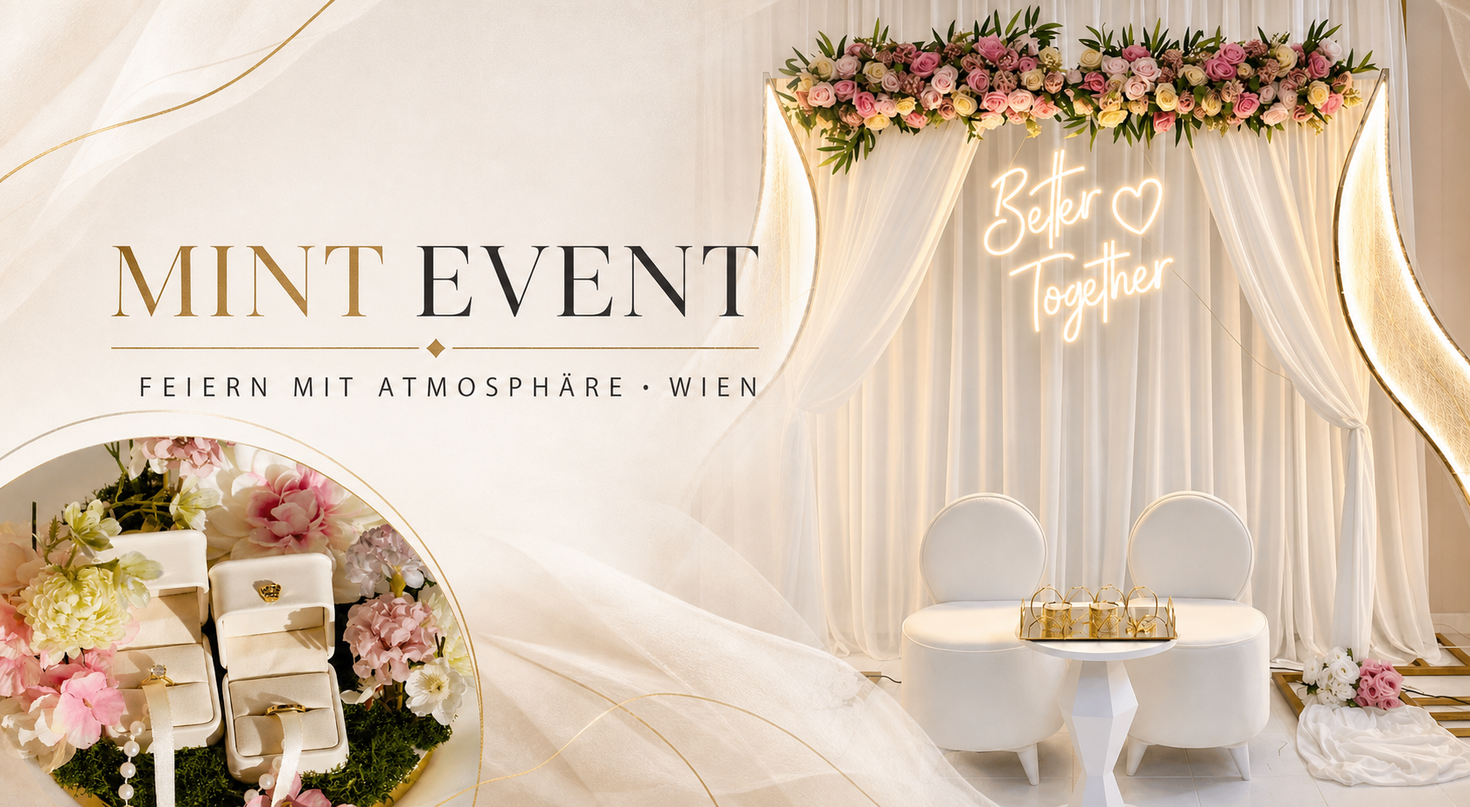
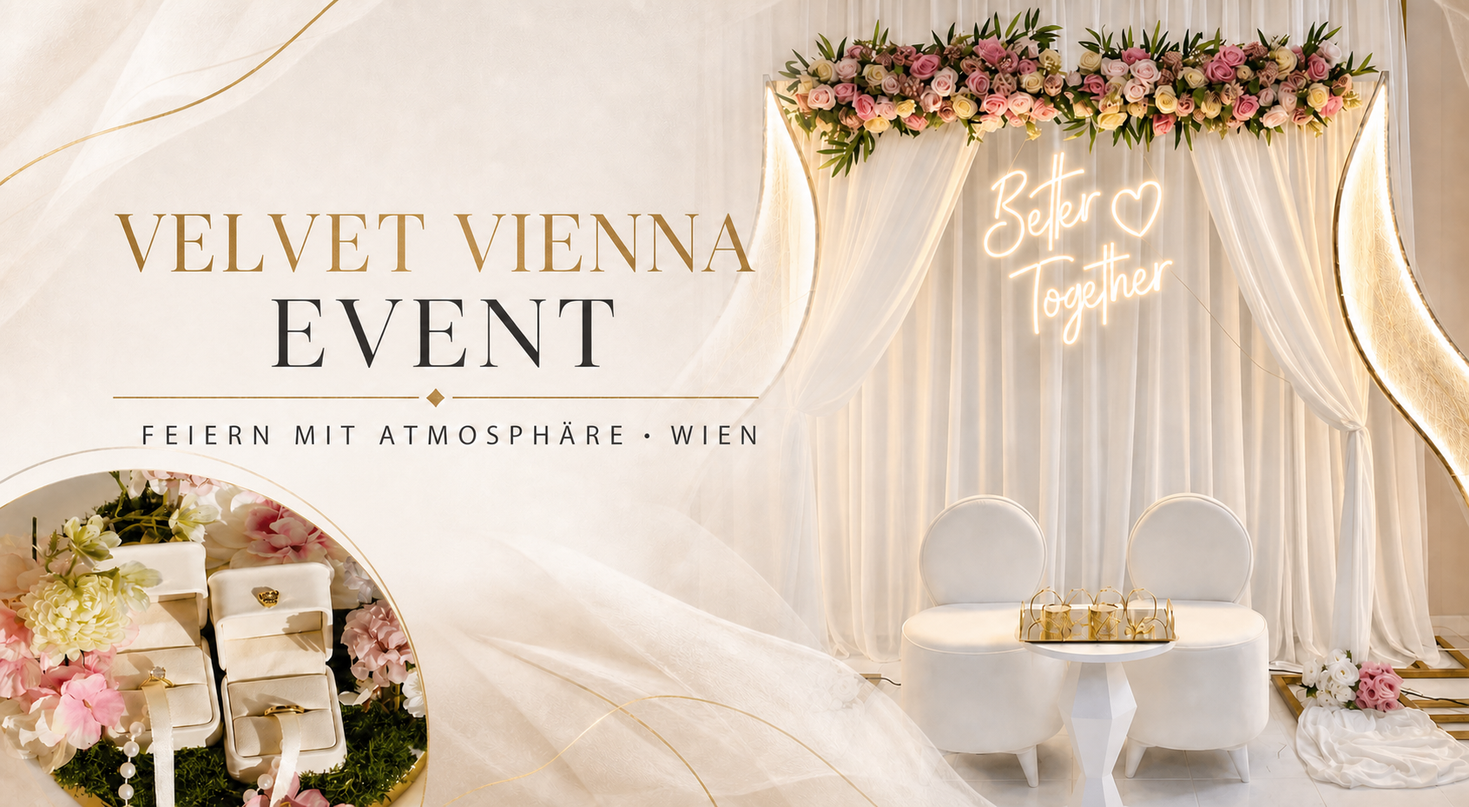
Rebrand site as Velvet Vienna Event

diff --git a/app/components/MintSite.tsx b/app/components/MintSite.tsx
@@ -74,7 +74,7 @@ const itemDescriptionTranslations: Record<Lang, Record<string, string>> = {
     "Scarlet Feather": "Auf Wunsch personalisierbar", "Burgundy Tef": "Spezielles Tef für die Braut · Auf Wunsch personalisierbar", "Midnight Masks": "Auf Wunsch personalisierbar", "Instant Memories": "Inklusive 20 Aufnahmen", "Davul Kiralama": "Auf Wunsch personalisierbar", "rental-crimson-garden": "Roter Teppich und Henna-Thron können separat gemietet werden.", "Initials in Ivory": "Personalisierung möglich", "gift-canvas-bag": "Auf Wunsch personalisierbar", "gift-bridal-fan": "Auf Wunsch personalisierbar",
   },
   tr: {
-    "Sarı & Orange Garden": "Çiçekler · Kumaş · Açık alan", "White Geometry": "Tekstil · Geometri · Beyaz", "Rosé & Gold": "Pudra pembe · Işık · Altın", "Luminous White": "Işık kemerleri · Çiçek tasarımı", "Butterfly Geometry": "Tekstil · Kelebek detayları", "White Circle": "Masa · Yuvarlak kemer · Çiçekler", "Pearl Light": "Sedef · Işık · Çiçek tasarımı", "Crimson Garden": "Taht · Halı · Fenerler", "rental-crimson-garden": "Kırmızı Halı ve Kına Tahtı ayrı ayrı kiralanabilir.", "Sage & Gold Garden": "Adaçayı yeşili · Altın · Çiçekler", "Davul & Drapes": "Taht · Davul · Kumaş", "Pampas Heart": "Kalp kemeri · Pampas · Kırmızı", "Heart Curtain": "Kumaş · Kalpler · Işık", "Blue Drapery": "Mavi · Pembe · Çiçekler", "Burgundy Circle": "Yuvarlak kemer · Kumaş · Çiçekler", "Kına Welcome": "Tüller · Ayna · Karşılama", "Burgundy Welcome": "Çiçekler · Kurdeleler · Mumlar", "Memory Table": "Kartlar · Mumlar · Çiçekler", "Burgundy Sweets": "Tatlılar · Tekstil · Mumlar", "Sweet Gathering": "Büfe · Çiçekler · Sunum", "Rustic Table": "Ahşap · Çiçekler · Mumlar", "At Your Place": "Peçete · İsim kartı", "Lace Welcome": "Dantel · Şövale · Çiçekler", "Butterfly Welcome": "Ayna · Kelebekler · Çiçekler", "Golden Reflection": "Kemer ayna · Altın · Çiçek tasarımı", "Castle Promise": "Göl · Şato · Evlilik teklifi", "Initials in Ivory": "Kişiselleştirme yapılır", "Scarlet Feather": "İsteğe göre kişiselleştirme yapılır", "Burgundy Tef": "Geline özel tef · İsteğe göre kişiselleştirme yapılır", "Midnight Masks": "İsteğe göre kişiselleştirme yapılır", "Instant Memories": "20 poz ile birlikte", "Davul Kiralama": "İsteğe göre kişiselleştirme yapılır", "gift-canvas-bag": "İsteğe göre kişiselleştirme yapılır", "gift-bridal-fan": "İsteğe göre kişiselleştirme yapılır",
+    "Sarı & Orange Garden": "Çiçekler · Kumaş · Açık alan", "White Geometry": "Tekstil · Geometri · Beyaz", "Rosé & Gold": "Pudra pembe · Işık · Altın", "Luminous White": "Işık kemerleri · Çiçek tasarımı", "Butterfly Geometry": "Tekstil · Kelebek detayları", "White Circle": "Masa · Yuvarlak kemer · Çiçekler", "Pearl Light": "Sedef · Işık · Çiçek tasarımı", "Crimson Garden": "Taht · Halı · Fenerler", "rental-crimson-garden": "Kırmızı Halı ve Kına Tahtı ayrı ayrı kiralanabilir.", "Sage & Gold Garden": "Adaçayı yeşili · Altın · Çiçekler", "Davul & Drapes": "Taht · Davul · Kumaş", "Pampas Heart": "Kalp kemeri · Pampas · Kırmızı", "Heart Curtain": "Kumaş · Kalpler · Işık", "Blue Drapery": "Mavi · Pembe · Çiçekler", "Burgundy Circle": "Yuvarlak kemer · Kumaş · Çiçekler", "Kına Welcome": "Tüller · Ayna · Karşılama", "Burgundy Welcome": "Çiçekler · Kurdeleler · Mumlar", "Memory Table": "Kartlar · Mumlar · Çiçekler", "Burgundy Sweets": "Tatlılar · Tekstil · Mumlar", "Sweet Gathering": "Büfe · Çiçekler · Sunum", "Rustic Table": "Ahşap · Çiçekler · Mumlar", "Lace Welcome": "Dantel · Şövale · Çiçekler", "Butterfly Welcome": "Ayna · Kelebekler · Çiçekler", "Golden Reflection": "Kemer ayna · Altın · Çiçek tasarımı", "Castle Promise": "Göl · Şato · Evlilik teklifi", "Initials in Ivory": "Kişiselleştirme yapılır", "Scarlet Feather": "İsteğe göre kişiselleştirme yapılır", "Burgundy Tef": "Geline özel tef · İsteğe göre kişiselleştirme yapılır", "Midnight Masks": "İsteğe göre kişiselleştirme yapılır", "Instant Memories": "20 poz ile birlikte", "Davul Kiralama": "İsteğe göre kişiselleştirme yapılır", "gift-canvas-bag": "İsteğe göre kişiselleştirme yapılır", "gift-bridal-fan": "İsteğe göre kişiselleştirme yapılır",
   },
   en: { "Scarlet Feather": "Personalisation available on request", "Burgundy Tef": "Special tef for the bride · Personalisation available on request", "Midnight Masks": "Personalisation available on request", "Instant Memories": "Includes 20 shots", "Davul Kiralama": "Personalisation available on request", "rental-crimson-garden": "The red carpet and henna throne can be hired separately.", "Initials in Ivory": "Personalisation available", "gift-canvas-bag": "Personalisation available on request", "gift-bridal-fan": "Personalisation available on request" },
   ar: { "Scarlet Feather": "يمكن تخصيصه حسب الطلب", "Burgundy Tef": "دف خاص للعروس · يمكن تخصيصه حسب الطلب", "Midnight Masks": "يمكن تخصيصه حسب الطلب", "Instant Memories": "يشمل 20 لقطة", "Davul Kiralama": "يمكن تخصيصه حسب الطلب", "rental-crimson-garden": "يمكن استئجار السجادة الحمراء وعرش الحناء بشكل منفصل.", "Initials in Ivory": "التخصيص متاح", "gift-canvas-bag": "يمكن تخصيصه حسب الطلب", "gift-bridal-fan": "يمكن تخصيصه حسب الطلب" },
@@ -143,7 +143,7 @@ const copy = {
     detailsKicker: "Leihen · Schenken · Erinnern",
     detailsTitle: "Die Details, die ein Fest tragen.",
     detailsText: "Von zeremoniellen Objekten bis zu personalisierten Gastgeschenken: jedes Detail wird passend zu Anlass, Farbe und Stückzahl kuratiert.",
-    studioKicker: "Mint Event · Wien",
+    studioKicker: "Velvet Vienna Event · Wien",
     studioTitle: "Wir hören zuerst zu. Dann gestalten wir Atmosphäre.",
     studioText: "Für Paare und Familien, deren Fest elegant, persönlich und selbstverständlich vielschichtig sein darf.",
     values: ["Zuhören", "Verbinden", "Inszenieren"],
@@ -168,16 +168,16 @@ const copy = {
     menu: "Menü",
   },
   tr: {
-    nav: ["Projeler", "Detaylar", "Stüdyo", "İletişim"], eyebrow: "Etkinlik tasarımı · Viyana", heroA: "Sizi yansıtan", heroB: "davetler tasarlıyoruz.", heroText: "Düğün, nişan, nikâh, kına gecesi ve özel günler için Viyana’da kişiye özel dekorasyon.", explore: "Atmosferi keşfet", inquiry: "Teklif iste", signature: "Tasarım dilimiz", signatureTitle: "Sadece dekore etmiyoruz. Size özel kurguluyoruz.", signatureText: "Arka plan, çiçek, kumaş, ışık, masa ve kişisel detayları ilk bakıştan son hediyeye kadar tek bir hikâyede buluşturuyoruz.", selected: "Seçili anlar", selectedTitle: "Büyük sahneler. İnce detaylar.", viewAll: "Tüm projeleri gör", services: "Tamamlayıcı hizmetler", servicesTitle: "Davetinizi tamamlayan her şey.", cake: "Pasta", cakeText: "Kutlamanızın renklerini, stilini ve ruhunu zarifçe taşıyan konsept pasta.", photo: "Fotoğraf çekimi", photoText: "Büyük anların arasındaki duyguları da yakalayan fotoğraf çekimi ve seçili hatıralar.", invite: "Dijital Davetiye", inviteText: "Kişiye ve konsepte özel, interaktif dijital davetiye tasarımı yapılır.", projectsKicker: "Dekorasyonlar · Viyana", projectsTitle: "Her davetin kendine ait bir rengi vardır.", projectsText: "Gerçek etkinliklerden arka planlar, dekor sahneleri ve masa dünyaları. Mevcut konseptlerin yaratıcı isimleri hikâyelerinin bir parçası olarak korunur.", detailsKicker: "Kiralık · Hediye · Hatıra", detailsTitle: "Bir daveti taşıyan detaylar.", detailsText: "Seremoni objelerinden kişiselleştirilmiş misafir hediyelerine kadar her parça konsepte, renge ve adede göre hazırlanır.", studioKicker: "Mint Event · Viyana", studioTitle: "Önce dinliyor, sonra atmosferi tasarlıyoruz.", studioText: "Zarif, kişisel ve farklı gelenekleri doğal biçimde bir araya getiren kutlamalar için.", values: ["Dinlemek", "Birleştirmek", "Sahnelemek"], valueText: ["Davet türü, mekân, misafirler, renkler ve ritüeller başlangıç noktamızdır.", "Arka plan, çiçek, tekstil, ışık ve detaylar ortak bir ritim bulur.", "Teslim eder, kurar ve mekânı misafirlerinizin gelişi için hazırlarız."], contactKicker: "Yeni kutlama · Viyana", contactTitle: "Neyi kutlamak istiyorsunuz?", contactText: "Tarih, mekân ve ilk fikriniz yeterli. Genellikle 1–2 iş günü içinde dönüş yapıyoruz.", formTitle: "Başlangıç için birkaç detay.", name: "Adınız", email: "E-posta", date: "Tarih", place: "Mekân / Konum", occasion: "Davet türü veya isteğiniz", idea: "Fikrinizi bize anlatın", send: "E-posta talebi hazırla", filters: { all: "Tümü", backdrops: "Arka plan dekorları", tables: "Masa & karşılama", gifts: "Misafir hediyeleri", ceremony: "Kiralık & seremoni" }, ctaKicker: "Kutlamanız burada başlar", ctaTitle: "Bize neyi kutladığınızı anlatın.", footer: "Atmosferli kutlamalar · Viyana", imageOpen: "Görseli büyüt", close: "Kapat", menu: "Menü",
+    nav: ["Projeler", "Detaylar", "Stüdyo", "İletişim"], eyebrow: "Etkinlik tasarımı · Viyana", heroA: "Sizi yansıtan", heroB: "davetler tasarlıyoruz.", heroText: "Düğün, nişan, nikâh, kına gecesi ve özel günler için Viyana’da kişiye özel dekorasyon.", explore: "Atmosferi keşfet", inquiry: "Teklif iste", signature: "Tasarım dilimiz", signatureTitle: "Sadece dekore etmiyoruz. Size özel kurguluyoruz.", signatureText: "Arka plan, çiçek, kumaş, ışık, masa ve kişisel detayları ilk bakıştan son hediyeye kadar tek bir hikâyede buluşturuyoruz.", selected: "Seçili anlar", selectedTitle: "Büyük sahneler. İnce detaylar.", viewAll: "Tüm projeleri gör", services: "Tamamlayıcı hizmetler", servicesTitle: "Davetinizi tamamlayan her şey.", cake: "Pasta", cakeText: "Kutlamanızın renklerini, stilini ve ruhunu zarifçe taşıyan konsept pasta.", photo: "Fotoğraf çekimi", photoText: "Büyük anların arasındaki duyguları da yakalayan fotoğraf çekimi ve seçili hatıralar.", invite: "Dijital Davetiye", inviteText: "Kişiye ve konsepte özel, interaktif dijital davetiye tasarımı yapılır.", projectsKicker: "Dekorasyonlar · Viyana", projectsTitle: "Her davetin kendine ait bir rengi vardır.", projectsText: "Gerçek etkinliklerden arka planlar, dekor sahneleri ve masa dünyaları. Mevcut konseptlerin yaratıcı isimleri hikâyelerinin bir parçası olarak korunur.", detailsKicker: "Kiralık · Hediye · Hatıra", detailsTitle: "Bir daveti taşıyan detaylar.", detailsText: "Seremoni objelerinden kişiselleştirilmiş misafir hediyelerine kadar her parça konsepte, renge ve adede göre hazırlanır.", studioKicker: "Velvet Vienna Event · Viyana", studioTitle: "Önce dinliyor, sonra atmosferi tasarlıyoruz.", studioText: "Zarif, kişisel ve farklı gelenekleri doğal biçimde bir araya getiren kutlamalar için.", values: ["Dinlemek", "Birleştirmek", "Sahnelemek"], valueText: ["Davet türü, mekân, misafirler, renkler ve ritüeller başlangıç noktamızdır.", "Arka plan, çiçek, tekstil, ışık ve detaylar ortak bir ritim bulur.", "Teslim eder, kurar ve mekânı misafirlerinizin gelişi için hazırlarız."], contactKicker: "Yeni kutlama · Viyana", contactTitle: "Neyi kutlamak istiyorsunuz?", contactText: "Tarih, mekân ve ilk fikriniz yeterli. Genellikle 1–2 iş günü içinde dönüş yapıyoruz.", formTitle: "Başlangıç için birkaç detay.", name: "Adınız", email: "E-posta", date: "Tarih", place: "Mekân / Konum", occasion: "Davet türü veya isteğiniz", idea: "Fikrinizi bize anlatın", send: "E-posta talebi hazırla", filters: { all: "Tümü", backdrops: "Arka plan dekorları", tables: "Masa & karşılama", gifts: "Misafir hediyeleri", ceremony: "Kiralık & seremoni" }, ctaKicker: "Kutlamanız burada başlar", ctaTitle: "Bize neyi kutladığınızı anlatın.", footer: "Atmosferli kutlamalar · Viyana", imageOpen: "Görseli büyüt", close: "Kapat", menu: "Menü",
   },
   en: {
-    nav: ["Projects", "Details", "Studio", "Enquiry"], eyebrow: "Event design · Vienna", heroA: "We design celebrations", heroB: "that feel unmistakably yours.", heroText: "Personal event styling in Vienna for weddings, engagements, civil ceremonies, henna nights and meaningful days.", explore: "Discover the atmosphere", inquiry: "Start an enquiry", signature: "Our signature", signatureTitle: "Not simply decorated. Composed for you.", signatureText: "Backdrops, flowers, textiles, light, tables and personal touches become one calm, coherent story — from the first impression to the final favour.", selected: "Selected moments", selectedTitle: "Grand scenes. Intimate details.", viewAll: "View all projects", services: "Complementary services", servicesTitle: "Everything that completes your invitation.", cake: "Cake", cakeText: "A concept cake that elegantly echoes the palette, style and mood of your celebration.", photo: "Photography", photoText: "Thoughtful photography and curated keepsakes for the emotion between the grand moments.", invite: "Digital invitation", inviteText: "A personal, interactive digital invitation designed around you and your concept.", projectsKicker: "Decorations · Vienna", projectsTitle: "Every celebration has its own colour.", projectsText: "Real backdrops, settings and table stories. The original creative names remain part of each concept's identity.", detailsKicker: "Hire · Gift · Remember", detailsTitle: "The details that carry a celebration.", detailsText: "From ceremonial objects to personalised favours, every detail is curated around your occasion, palette and quantity.", studioKicker: "Mint Event · Vienna", studioTitle: "We listen first. Then we shape the atmosphere.", studioText: "For couples and families who want a celebration that feels elegant, personal and beautifully layered.", values: ["Listen", "Connect", "Stage"], valueText: ["The occasion, venue, guests, palette and rituals are where we begin.", "Backdrop, flowers, textiles, light and details settle into one rhythm.", "We deliver, install and prepare the room for the moment your guests arrive."], contactKicker: "New celebration · Vienna", contactTitle: "What would you like to celebrate?", contactText: "A date, location and first idea are enough. We usually reply within 1–2 business days.", formTitle: "A few details to begin.", name: "Your name", email: "Email", date: "Date", place: "Venue / Location", occasion: "Occasion or request", idea: "Tell us about your idea", send: "Prepare email enquiry", filters: { all: "All", backdrops: "Backdrop decor", tables: "Table & welcome", gifts: "Guest favours", ceremony: "Hire & ceremony" }, ctaKicker: "Your celebration begins here", ctaTitle: "Tell us what you are celebrating.", footer: "Celebrations with atmosphere · Vienna", imageOpen: "Enlarge image", close: "Close", menu: "Menu",
+    nav: ["Projects", "Details", "Studio", "Enquiry"], eyebrow: "Event design · Vienna", heroA: "We design celebrations", heroB: "that feel unmistakably yours.", heroText: "Personal event styling in Vienna for weddings, engagements, civil ceremonies, henna nights and meaningful days.", explore: "Discover the atmosphere", inquiry: "Start an enquiry", signature: "Our signature", signatureTitle: "Not simply decorated. Composed for you.", signatureText: "Backdrops, flowers, textiles, light, tables and personal touches become one calm, coherent story — from the first impression to the final favour.", selected: "Selected moments", selectedTitle: "Grand scenes. Intimate details.", viewAll: "View all projects", services: "Complementary services", servicesTitle: "Everything that completes your invitation.", cake: "Cake", cakeText: "A concept cake that elegantly echoes the palette, style and mood of your celebration.", photo: "Photography", photoText: "Thoughtful photography and curated keepsakes for the emotion between the grand moments.", invite: "Digital invitation", inviteText: "A personal, interactive digital invitation designed around you and your concept.", projectsKicker: "Decorations · Vienna", projectsTitle: "Every celebration has its own colour.", projectsText: "Real backdrops, settings and table stories. The original creative names remain part of each concept's identity.", detailsKicker: "Hire · Gift · Remember", detailsTitle: "The details that carry a celebration.", detailsText: "From ceremonial objects to personalised favours, every detail is curated around your occasion, palette and quantity.", studioKicker: "Velvet Vienna Event · Vienna", studioTitle: "We listen first. Then we shape the atmosphere.", studioText: "For couples and families who want a celebration that feels elegant, personal and beautifully layered.", values: ["Listen", "Connect", "Stage"], valueText: ["The occasion, venue, guests, palette and rituals are where we begin.", "Backdrop, flowers, textiles, light and details settle into one rhythm.", "We deliver, install and prepare the room for the moment your guests arrive."], contactKicker: "New celebration · Vienna", contactTitle: "What would you like to celebrate?", contactText: "A date, location and first idea are enough. We usually reply within 1–2 business days.", formTitle: "A few details to begin.", name: "Your name", email: "Email", date: "Date", place: "Venue / Location", occasion: "Occasion or request", idea: "Tell us about your idea", send: "Prepare email enquiry", filters: { all: "All", backdrops: "Backdrop decor", tables: "Table & welcome", gifts: "Guest favours", ceremony: "Hire & ceremony" }, ctaKicker: "Your celebration begins here", ctaTitle: "Tell us what you are celebrating.", footer: "Celebrations with atmosphere · Vienna", imageOpen: "Enlarge image", close: "Close", menu: "Menu",
   },
   ar: {
-    nav: ["المشاريع", "التفاصيل", "الاستوديو", "طلب عرض"], eyebrow: "تصميم مناسبات · فيينا", heroA: "نصمم احتفالات", heroB: "تشبهكم تماماً.", heroText: "تنسيق شخصي في فيينا لحفلات الزفاف والخطوبة وعقد القران وليالي الحناء والأيام المميزة.", explore: "اكتشفوا الأجواء", inquiry: "أرسلوا طلباً", signature: "بصمتنا", signatureTitle: "ليست زينة فحسب، بل مشهد صُمم لكم.", signatureText: "نجمع الخلفيات والزهور والأقمشة والإضاءة والطاولات والتفاصيل الشخصية في قصة واحدة متناغمة.", selected: "لحظات مختارة", selectedTitle: "مشاهد كبيرة. تفاصيل حميمة.", viewAll: "عرض كل المشاريع", services: "خدمات مكمّلة", servicesTitle: "كل ما يُكمل دعوتكم.", cake: "الكيك", cakeText: "كيك بتصميم ينسجم بأناقة مع ألوان المناسبة وأسلوبها.", photo: "التصوير", photoText: "تصوير مدروس وذكريات منتقاة لكل المشاعر بين اللحظات الكبيرة.", invite: "دعوة رقمية", inviteText: "تصميم دعوة رقمية تفاعلية وشخصية تناسبكم وتناسب مفهوم مناسبتكم.", projectsKicker: "ديكورات · فيينا", projectsTitle: "لكل احتفال لونه الخاص.", projectsText: "خلفيات ومشاهد وطاولات من مناسبات حقيقية، مع الحفاظ على الأسماء الإبداعية الأصلية لكل مفهوم.", detailsKicker: "استئجار · هدايا · ذكريات", detailsTitle: "التفاصيل التي تحمل روح الاحتفال.", detailsText: "من أدوات الطقوس إلى هدايا الضيوف الشخصية، ننسق كل تفصيل حسب المناسبة واللون والعدد.", studioKicker: "Mint Event · فيينا", studioTitle: "نستمع أولاً، ثم نصمم الأجواء.", studioText: "للأزواج والعائلات الذين يرغبون في احتفال أنيق وشخصي وغني بالتفاصيل.", values: ["الاستماع", "الربط", "التنسيق"], valueText: ["نبدأ بنوع المناسبة والمكان والضيوف والألوان والطقوس.", "نجمع الخلفية والزهور والأقمشة والضوء والتفاصيل في إيقاع واحد.", "نقوم بالتوصيل والتركيب وتجهيز المكان لاستقبال ضيوفكم."], contactKicker: "مناسبة جديدة · فيينا", contactTitle: "ماذا ترغبون في الاحتفال به؟", contactText: "يكفينا التاريخ والمكان وفكرة أولية. نرد عادة خلال يوم أو يومي عمل.", formTitle: "بعض التفاصيل للبدء.", name: "الاسم", email: "البريد الإلكتروني", date: "التاريخ", place: "المكان", occasion: "نوع المناسبة أو الطلب", idea: "حدثونا عن فكرتكم", send: "إعداد الطلب عبر البريد", filters: { all: "الكل", backdrops: "ديكور الخلفيات", tables: "الطاولات والاستقبال", gifts: "هدايا الضيوف", ceremony: "الاستئجار والطقوس" }, ctaKicker: "احتفالكم يبدأ هنا", ctaTitle: "حدثونا عما تحتفلون به.", footer: "احتفالات بأجواء مميزة · فيينا", imageOpen: "تكبير الصورة", close: "إغلاق", menu: "القائمة",
+    nav: ["المشاريع", "التفاصيل", "الاستوديو", "طلب عرض"], eyebrow: "تصميم مناسبات · فيينا", heroA: "نصمم احتفالات", heroB: "تشبهكم تماماً.", heroText: "تنسيق شخصي في فيينا لحفلات الزفاف والخطوبة وعقد القران وليالي الحناء والأيام المميزة.", explore: "اكتشفوا الأجواء", inquiry: "أرسلوا طلباً", signature: "بصمتنا", signatureTitle: "ليست زينة فحسب، بل مشهد صُمم لكم.", signatureText: "نجمع الخلفيات والزهور والأقمشة والإضاءة والطاولات والتفاصيل الشخصية في قصة واحدة متناغمة.", selected: "لحظات مختارة", selectedTitle: "مشاهد كبيرة. تفاصيل حميمة.", viewAll: "عرض كل المشاريع", services: "خدمات مكمّلة", servicesTitle: "كل ما يُكمل دعوتكم.", cake: "الكيك", cakeText: "كيك بتصميم ينسجم بأناقة مع ألوان المناسبة وأسلوبها.", photo: "التصوير", photoText: "تصوير مدروس وذكريات منتقاة لكل المشاعر بين اللحظات الكبيرة.", invite: "دعوة رقمية", inviteText: "تصميم دعوة رقمية تفاعلية وشخصية تناسبكم وتناسب مفهوم مناسبتكم.", projectsKicker: "ديكورات · فيينا", projectsTitle: "لكل احتفال لونه الخاص.", projectsText: "خلفيات ومشاهد وطاولات من مناسبات حقيقية، مع الحفاظ على الأسماء الإبداعية الأصلية لكل مفهوم.", detailsKicker: "استئجار · هدايا · ذكريات", detailsTitle: "التفاصيل التي تحمل روح الاحتفال.", detailsText: "من أدوات الطقوس إلى هدايا الضيوف الشخصية، ننسق كل تفصيل حسب المناسبة واللون والعدد.", studioKicker: "Velvet Vienna Event · فيينا", studioTitle: "نستمع أولاً، ثم نصمم الأجواء.", studioText: "للأزواج والعائلات الذين يرغبون في احتفال أنيق وشخصي وغني بالتفاصيل.", values: ["الاستماع", "الربط", "التنسيق"], valueText: ["نبدأ بنوع المناسبة والمكان والضيوف والألوان والطقوس.", "نجمع الخلفية والزهور والأقمشة والضوء والتفاصيل في إيقاع واحد.", "نقوم بالتوصيل والتركيب وتجهيز المكان لاستقبال ضيوفكم."], contactKicker: "مناسبة جديدة · فيينا", contactTitle: "ماذا ترغبون في الاحتفال به؟", contactText: "يكفينا التاريخ والمكان وفكرة أولية. نرد عادة خلال يوم أو يومي عمل.", formTitle: "بعض التفاصيل للبدء.", name: "الاسم", email: "البريد الإلكتروني", date: "التاريخ", place: "المكان", occasion: "نوع المناسبة أو الطلب", idea: "حدثونا عن فكرتكم", send: "إعداد الطلب عبر البريد", filters: { all: "الكل", backdrops: "ديكور الخلفيات", tables: "الطاولات والاستقبال", gifts: "هدايا الضيوف", ceremony: "الاستئجار والطقوس" }, ctaKicker: "احتفالكم يبدأ هنا", ctaTitle: "حدثونا عما تحتفلون به.", footer: "احتفالات بأجواء مميزة · فيينا", imageOpen: "تكبير الصورة", close: "إغلاق", menu: "القائمة",
   },
   ru: {
-    nav: ["Проекты", "Детали", "Студия", "Запрос"], eyebrow: "Дизайн событий · Вена", heroA: "Мы создаём праздники,", heroB: "которые похожи именно на вас.", heroText: "Индивидуальный декор в Вене для свадеб, помолвок, регистраций, вечеров хны и особенных дней.", explore: "Открыть атмосферу", inquiry: "Оставить запрос", signature: "Наш почерк", signatureTitle: "Не просто декор. Композиция для вас.", signatureText: "Фоны, цветы, текстиль, свет, столы и личные детали складываются в одну спокойную и цельную историю.", selected: "Избранные моменты", selectedTitle: "Большие сцены. Тонкие детали.", viewAll: "Все проекты", services: "Дополнительные услуги", servicesTitle: "Всё, что завершает ваше приглашение.", cake: "Торт", cakeText: "Концептуальный торт, который деликатно поддерживает палитру и настроение праздника.", photo: "Фотосъёмка", photoText: "Продуманная фотосъёмка и отобранные воспоминания о чувствах между главными моментами.", invite: "Цифровое приглашение", inviteText: "Персональное интерактивное цифровое приглашение, созданное для вас и вашей концепции.", projectsKicker: "Декор · Вена", projectsTitle: "У каждого праздника свой цвет.", projectsText: "Фоны, декорации и оформление столов с реальных событий. Оригинальные творческие названия концепций сохранены.", detailsKicker: "Аренда · Подарки · Память", detailsTitle: "Детали, на которых держится праздник.", detailsText: "От церемониальных предметов до персональных подарков гостям — всё подбирается под событие, палитру и количество.", studioKicker: "Mint Event · Вена", studioTitle: "Сначала мы слушаем. Потом создаём атмосферу.", studioText: "Для пар и семей, которые хотят элегантный, личный и многогранный праздник.", values: ["Слушать", "Соединять", "Воплощать"], valueText: ["Начинаем с повода, места, гостей, палитры и ритуалов.", "Фон, цветы, текстиль, свет и детали обретают общий ритм.", "Доставляем, монтируем и готовим пространство к встрече гостей."], contactKicker: "Новый праздник · Вена", contactTitle: "Что вы хотите отпраздновать?", contactText: "Достаточно даты, места и первой идеи. Обычно мы отвечаем в течение 1–2 рабочих дней.", formTitle: "Несколько деталей для начала.", name: "Ваше имя", email: "Эл. почта", date: "Дата", place: "Место", occasion: "Повод или пожелание", idea: "Расскажите о вашей идее", send: "Подготовить запрос", filters: { all: "Все", backdrops: "Фоновый декор", tables: "Столы и welcome-зона", gifts: "Подарки гостям", ceremony: "Аренда и церемония" }, ctaKicker: "Ваш праздник начинается здесь", ctaTitle: "Расскажите, что вы празднуете.", footer: "Праздники с атмосферой · Вена", imageOpen: "Увеличить изображение", close: "Закрыть", menu: "Меню",
+    nav: ["Проекты", "Детали", "Студия", "Запрос"], eyebrow: "Дизайн событий · Вена", heroA: "Мы создаём праздники,", heroB: "которые похожи именно на вас.", heroText: "Индивидуальный декор в Вене для свадеб, помолвок, регистраций, вечеров хны и особенных дней.", explore: "Открыть атмосферу", inquiry: "Оставить запрос", signature: "Наш почерк", signatureTitle: "Не просто декор. Композиция для вас.", signatureText: "Фоны, цветы, текстиль, свет, столы и личные детали складываются в одну спокойную и цельную историю.", selected: "Избранные моменты", selectedTitle: "Большие сцены. Тонкие детали.", viewAll: "Все проекты", services: "Дополнительные услуги", servicesTitle: "Всё, что завершает ваше приглашение.", cake: "Торт", cakeText: "Концептуальный торт, который деликатно поддерживает палитру и настроение праздника.", photo: "Фотосъёмка", photoText: "Продуманная фотосъёмка и отобранные воспоминания о чувствах между главными моментами.", invite: "Цифровое приглашение", inviteText: "Персональное интерактивное цифровое приглашение, созданное для вас и вашей концепции.", projectsKicker: "Декор · Вена", projectsTitle: "У каждого праздника свой цвет.", projectsText: "Фоны, декорации и оформление столов с реальных событий. Оригинальные творческие названия концепций сохранены.", detailsKicker: "Аренда · Подарки · Память", detailsTitle: "Детали, на которых держится праздник.", detailsText: "От церемониальных предметов до персональных подарков гостям — всё подбирается под событие, палитру и количество.", studioKicker: "Velvet Vienna Event · Вена", studioTitle: "Сначала мы слушаем. Потом создаём атмосферу.", studioText: "Для пар и семей, которые хотят элегантный, личный и многогранный праздник.", values: ["Слушать", "Соединять", "Воплощать"], valueText: ["Начинаем с повода, места, гостей, палитры и ритуалов.", "Фон, цветы, текстиль, свет и детали обретают общий ритм.", "Доставляем, монтируем и готовим пространство к встрече гостей."], contactKicker: "Новый праздник · Вена", contactTitle: "Что вы хотите отпраздновать?", contactText: "Достаточно даты, места и первой идеи. Обычно мы отвечаем в течение 1–2 рабочих дней.", formTitle: "Несколько деталей для начала.", name: "Ваше имя", email: "Эл. почта", date: "Дата", place: "Место", occasion: "Повод или пожелание", idea: "Расскажите о вашей идее", send: "Подготовить запрос", filters: { all: "Все", backdrops: "Фоновый декор", tables: "Столы и welcome-зона", gifts: "Подарки гостям", ceremony: "Аренда и церемония" }, ctaKicker: "Ваш праздник начинается здесь", ctaTitle: "Расскажите, что вы празднуете.", footer: "Праздники с атмосферой · Вена", imageOpen: "Увеличить изображение", close: "Закрыть", menu: "Меню",
   },
 };
 
@@ -247,8 +247,8 @@ export function MintSite({ page }: { page: SitePage }) {
     <div className="site-shell" dir={rtl ? "rtl" : "ltr"}>
       <a className="skip-link" href="#main">{localeExtras[lang].skip}</a>
       <header className={page === "home" ? "site-header site-header--overlay" : "site-header"}>
-        <Link className="brand" href="/" aria-label="Mint Event home">
-          <img src={page === "home" ? "/brand/mintevent-logo-cream.svg" : "/brand/mintevent-logo-green.svg"} alt="Mint Event" />
+        <Link className="brand" href="/" aria-label="Velvet Vienna Event home">
+          <img src={page === "home" ? "/brand/velvet-vienna-event-logo-cream.svg" : "/brand/velvet-vienna-event-logo-green.svg"} alt="Velvet Vienna Event" />
         </Link>
         <button className="menu-button" onClick={() => setMenuOpen((value) => !value)} aria-expanded={menuOpen} aria-label={t.menu}>☰</button>
         <nav className={menuOpen ? "main-nav is-open" : "main-nav"} aria-label="Main navigation">
@@ -272,10 +272,10 @@ export function MintSite({ page }: { page: SitePage }) {
 
       <InspirationBanner lang={lang} />
       <footer className="site-footer">
-        <div><img src="/brand/mintevent-logo-cream.svg" alt="Mint Event" /><p>{t.footer}</p></div>
+        <div><img src="/brand/velvet-vienna-event-logo-cream.svg" alt="Velvet Vienna Event" /><p>{t.footer}</p></div>
         <div className="footer-links">{navLinks.map((href, index) => <Link key={href} href={href}>{t.nav[index]}</Link>)}</div>
-        <div><a href="mailto:mintevent@outlook.com">mintevent@outlook.com</a><a href="https://www.instagram.com/mintevents.vienna/" target="_blank" rel="noreferrer">Instagram ↗</a></div>
-        <p className="copyright">© 2026 Mint Event · {localeExtras[lang].city}</p>
+        <div><a href="mailto:velvetviennaevent@gmail.com">velvetviennaevent@gmail.com</a><a href="https://www.instagram.com/mintevents.vienna/" target="_blank" rel="noreferrer">Instagram ↗</a></div>
+        <p className="copyright">© 2026 Velvet Vienna Event · {localeExtras[lang].city}</p>
       </footer>
 
       {lightboxItem && <div className="lightbox" role="dialog" aria-modal="true" aria-label={lightboxItem.title} onClick={() => setLightbox(null)}>
@@ -317,7 +317,7 @@ function PortfolioPage({ t, filter, setFilter, items, open, lang }: { t: typeof 
   const filters = [["all", t.filters.all], ["backdrops", t.filters.backdrops], ["tables", t.filters.tables]];
   const heroItem = backdropProjects[7];
   return <>
-    <section className="page-hero"><div className="page-hero__copy"><p className="kicker">{t.projectsKicker}</p><h1>{t.projectsTitle}</h1><p>{t.projectsText}</p><span className="page-count">{allProjects.length} · Mint Event</span></div><div className="page-hero__image"><Picture item={heroItem} priority /></div></section>
+    <section className="page-hero"><div className="page-hero__copy"><p className="kicker">{t.projectsKicker}</p><h1>{t.projectsTitle}</h1><p>{t.projectsText}</p><span className="page-count">{allProjects.length} · Velvet Vienna Event</span></div><div className="page-hero__image"><Picture item={heroItem} priority /></div></section>
     <section className="portfolio-section"><div className="filter-bar" role="group" aria-label="Gallery filters">{filters.map(([value, label]) => <button key={value} className={filter === value ? "active" : ""} onClick={() => setFilter(value)}>{label}</button>)}</div><Gallery items={items} onOpen={open} label={t.imageOpen} lang={lang} /></section>
     <Cta t={t} />
   </>;
@@ -330,7 +330,7 @@ function DetailsCatalog({ t, filter, setFilter, open, labels, lang }: { t: typeo
     : rentalCatalogGroups.reduce((total, group) => total + group.items.length, 0);
 
   return <>
-    <section className="page-hero"><div className="page-hero__copy"><p className="kicker">{t.detailsKicker}</p><h1>{t.detailsTitle}</h1><p>{t.detailsText}</p><span className="page-count">{count} · Mint Event</span></div><div className="page-hero__image"><Picture item={ceremonyDetails[3]} priority /></div></section>
+    <section className="page-hero"><div className="page-hero__copy"><p className="kicker">{t.detailsKicker}</p><h1>{t.detailsTitle}</h1><p>{t.detailsText}</p><span className="page-count">{count} · Velvet Vienna Event</span></div><div className="page-hero__image"><Picture item={ceremonyDetails[3]} priority /></div></section>
     <section className="catalog-section">
       <div className="catalog-tabs" role="tablist" aria-label="Detaylar kategorileri">
         <button role="tab" aria-selected={active === "gifts"} className={active === "gifts" ? "active" : ""} onClick={() => setFilter("gifts")}>{labels.gifts}</button>
@@ -364,7 +364,7 @@ function Studio({ t, lang }: { t: typeof copy.de; lang: Lang }) {
   return <>
     <section className="studio-hero"><div><p className="kicker">{t.studioKicker}</p><h1>{t.studioTitle}</h1><p>{t.studioText}</p></div><div className="studio-hero__images"><div><Picture item={ceremonyDetails[20]} /></div><div><Picture item={giftDetails[10]} /></div></div></section>
     <section className="values-section"><SectionHeading kicker="01 · 02 · 03" title={t.signatureTitle} /><div className="value-list">{t.values.map((value, index) => <article key={value}><span>0{index + 1}</span><h3>{value}</h3><p>{t.valueText[index]}</p></article>)}</div></section>
-    <section className="studio-quote"><p>“</p><h2>{t.studioText}</h2><span>Mint Event · {localeExtras[lang].city}</span></section>
+    <section className="studio-quote"><p>“</p><h2>{t.studioText}</h2><span>Velvet Vienna Event · {localeExtras[lang].city}</span></section>
     <Cta t={t} />
   </>;
 }
@@ -374,9 +374,9 @@ function Contact({ t, lang }: { t: typeof copy.de; lang: Lang }) {
     event.preventDefault();
     const data = new FormData(event.currentTarget);
     const body = [t.name, data.get("name"), t.email, data.get("email"), t.date, data.get("date"), t.place, data.get("place"), t.occasion, data.get("occasion"), "", t.idea, data.get("idea")].join("%0D%0A");
-    window.location.href = `mailto:mintevent@outlook.com?subject=Mint Event · ${encodeURIComponent(String(data.get("occasion") || "Anfrage"))}&body=${body}`;
+    window.location.href = `mailto:velvetviennaevent@gmail.com?subject=Velvet Vienna Event · ${encodeURIComponent(String(data.get("occasion") || "Anfrage"))}&body=${body}`;
   };
-  return <section className="contact-page"><div className="contact-intro"><p className="kicker">{t.contactKicker}</p><h1>{t.contactTitle}</h1><p>{t.contactText}</p><div className="contact-details"><a href="mailto:mintevent@outlook.com">mintevent@outlook.com</a><a href="https://www.instagram.com/mintevents.vienna/" target="_blank" rel="noreferrer">@mintevents.vienna ↗</a><span>{localeExtras[lang].address}</span></div></div><form className="contact-form" onSubmit={submit}><p className="kicker">Mint Event</p><h2>{t.formTitle}</h2><div className="form-grid"><label>{t.name}<input name="name" required autoComplete="name" /></label><label>{t.email}<input name="email" type="email" required autoComplete="email" /></label><label>{t.date}<input name="date" type="date" /></label><label>{t.place}<input name="place" /></label></div><label>{t.occasion}<select name="occasion">{localeExtras[lang].occasions.map((occasion) => <option key={occasion}>{occasion}</option>)}<option>{t.invite}</option><option>{t.photo}</option><option>{t.cake}</option></select></label><label>{t.idea}<textarea name="idea" rows={5} /></label><button className="button button--gold" type="submit">{t.send} <span>↗</span></button></form></section>;
+  return <section className="contact-page"><div className="contact-intro"><p className="kicker">{t.contactKicker}</p><h1>{t.contactTitle}</h1><p>{t.contactText}</p><div className="contact-details"><a href="mailto:velvetviennaevent@gmail.com">velvetviennaevent@gmail.com</a><a href="https://www.instagram.com/mintevents.vienna/" target="_blank" rel="noreferrer">Instagram ↗</a><span>{localeExtras[lang].address}</span></div></div><form className="contact-form" onSubmit={submit}><p className="kicker">Velvet Vienna Event</p><h2>{t.formTitle}</h2><div className="form-grid"><label>{t.name}<input name="name" required autoComplete="name" /></label><label>{t.email}<input name="email" type="email" required autoComplete="email" /></label><label>{t.date}<input name="date" type="date" /></label><label>{t.place}<input name="place" /></label></div><label>{t.occasion}<select name="occasion">{localeExtras[lang].occasions.map((occasion) => <option key={occasion}>{occasion}</option>)}<option>{t.invite}</option><option>{t.photo}</option><option>{t.cake}</option></select></label><label>{t.idea}<textarea name="idea" rows={5} /></label><button className="button button--gold" type="submit">{t.send} <span>↗</span></button></form></section>;
 }
 
 function InspirationBanner({ lang }: { lang: Lang }) {

diff --git a/app/globals.css b/app/globals.css
@@ -31,11 +31,11 @@ button { color: inherit; }
 .skip-link:focus { top: 1rem; }
 .sr-only { position: absolute; width: 1px; height: 1px; padding: 0; margin: -1px; overflow: hidden; clip: rect(0,0,0,0); white-space: nowrap; border: 0; }
 
-.site-header { position: relative; z-index: 30; max-width: 1480px; min-height: 104px; margin: 0 auto; padding: 1.35rem clamp(1.2rem, 4vw, 4.5rem); display: grid; grid-template-columns: 180px 1fr auto; align-items: center; gap: 2rem; }
+.site-header { position: relative; z-index: 30; max-width: 1480px; min-height: 104px; margin: 0 auto; padding: 1.35rem clamp(1.2rem, 4vw, 4.5rem); display: grid; grid-template-columns: 210px 1fr auto; align-items: center; gap: clamp(1.2rem, 2.4vw, 2rem); }
 .site-header--overlay { position: absolute; inset: 0 0 auto; width: 100%; color: #fff8ea; }
 .site-header--overlay .language-picker select { color: #fff8ea; border-color: rgba(255,255,255,.3); background: rgba(17,28,25,.3); }
 .site-header--overlay .language-picker select option { color: var(--ink); background: var(--paper); }
-.brand { width: 144px; height: 62px; display: block; }
+.brand { width: 194px; height: 62px; display: block; }
 .brand img { object-fit: contain; object-position: left center; }
 .main-nav { justify-self: center; display: flex; gap: clamp(1.4rem, 3.2vw, 3.2rem); align-items: center; }
 .main-nav a { position: relative; padding: .7rem 0; font-size: .78rem; font-weight: 700; text-transform: uppercase; letter-spacing: .15em; }
@@ -198,10 +198,10 @@ h1, h2, h3 { font-family: "Iowan Old Style", Baskerville, Georgia, "Times New Ro
 .inspiration-banner span { color: var(--gold); font-size: 1.45rem; }
 .inspiration-banner p { margin: 0; color: #514940; font: clamp(1.08rem, 1.8vw, 1.42rem)/1.75 Georgia, serif; }
 .site-footer { padding: 4rem clamp(1.2rem, 5vw, 5rem) 2rem; display: grid; grid-template-columns: 1fr auto 1fr; gap: 3rem; align-items: start; background: #172b27; color: #eee3d2; }
-.site-footer > div:first-child img { width: 150px; height: 70px; object-fit: contain; object-position: left; }
+.site-footer > div:first-child img { width: 206px; height: 70px; object-fit: contain; object-position: left; }
 .site-footer > div:first-child p { color: rgba(238,227,210,.58); font-size: .8rem; }
 .footer-links { display: grid; grid-template-columns: 1fr 1fr; gap: .8rem 2rem; font-size: .72rem; text-transform: uppercase; letter-spacing: .12em; }
-.site-footer > div:nth-child(3) { justify-self: end; display: grid; gap: .8rem; text-align: right; font-size: .78rem; }
+.site-footer > div:nth-child(3) { justify-self: end; display: grid; gap: .8rem; max-width: 100%; text-align: right; overflow-wrap: anywhere; font-size: .78rem; }
 .copyright { grid-column: 1 / -1; margin: 2rem 0 0; padding-top: 1.5rem; border-top: 1px solid rgba(255,255,255,.12); color: rgba(238,227,210,.42); font-size: .65rem; text-align: center; }
 
 .lightbox { position: fixed; inset: 0; z-index: 80; display: grid; place-items: center; padding: 2rem; background: rgba(15,16,14,.84); backdrop-filter: blur(18px); }
@@ -235,7 +235,7 @@ h1, h2, h3 { font-family: "Iowan Old Style", Baskerville, Georgia, "Times New Ro
 
 @media (max-width: 680px) {
   .site-header { padding: 1rem; gap: .6rem; }
-  .brand { width: 105px; height: 55px; }
+  .brand { width: 142px; height: 52px; }
   .language-picker select { width: 74px; padding: .65rem 1.4rem .65rem .65rem; font-size: 0; }
   .language-picker select option { font-size: .72rem; }
   .hero { min-height: 100svh; padding: 8.5rem 1rem 5rem; }

diff --git a/app/layout.tsx b/app/layout.tsx
@@ -2,23 +2,23 @@ import type { Metadata } from "next";
 import "./globals.css";
 
 export const metadata: Metadata = {
-  metadataBase: new URL("https://mint-event-vienna.mahsumwstone.chatgpt.site"),
+  metadataBase: new URL("https://mint-event-vienna.aysenuroerki.chatgpt.site"),
   title: {
-    default: "Mint Event Vienna · Eventdesign & Dekoration",
-    template: "%s · Mint Event Vienna",
+    default: "Velvet Vienna Event · Eventdesign & Dekoration",
+    template: "%s · Velvet Vienna Event",
   },
   description: "Luxuriöse, persönliche Dekoration für Hochzeiten, Verlobungen, Hennaabende und besondere Feiern in Wien.",
   openGraph: {
-    title: "Mint Event Vienna · Feiern mit Atmosphäre",
+    title: "Velvet Vienna Event · Feiern mit Atmosphäre",
     description: "Persönliche Eventdekoration, Hintergründe, Gastgeschenke und Zeremoniedetails in Wien.",
     type: "website",
     locale: "de_AT",
-    siteName: "Mint Event Vienna",
-    images: [{ url: "/og.png", width: 1696, height: 960, alt: "Mint Event Vienna · Feiern mit Atmosphäre" }],
+    siteName: "Velvet Vienna Event",
+    images: [{ url: "/og.png", width: 1696, height: 960, alt: "Velvet Vienna Event · Feiern mit Atmosphäre" }],
   },
   twitter: {
     card: "summary_large_image",
-    title: "Mint Event Vienna · Feiern mit Atmosphäre",
+    title: "Velvet Vienna Event · Feiern mit Atmosphäre",
     description: "Persönliche Eventdekoration und besondere Details in Wien.",
     images: ["/og.png"],
   },

diff --git a/app/data/gallery.ts b/app/data/gallery.ts
@@ -59,7 +59,6 @@ export const tableProjects = createItems("tables", [
   { file: "burgundy-sweets", title: "Burgundy Sweets", tag: "Tischdeko", description: "Dessert · Textil · Kerzen", alt: "Sweet Table mit bordeauxfarbenem Tischläufer" },
   { file: "sweet-gathering", title: "Sweet Gathering", tag: "Tischdeko", description: "Buffet · Blumen · Präsentation", alt: "Hochzeitsbuffet mit Cupcakes und Süßigkeiten" },
   { file: "rustic-table", title: "Rustic Table", tag: "Tischdeko", description: "Holz · Blumen · Kerzen", alt: "Rustikale Tischdekoration mit Blumen und Holz" },
-  { file: "at-your-place", title: "At Your Place", tag: "Tischdeko", description: "Serviette · Namenskarte", alt: "Personalisierte Serviette und Tischkarte" },
 ]);
 
 export const receptionProjects = createItems("reception", [
